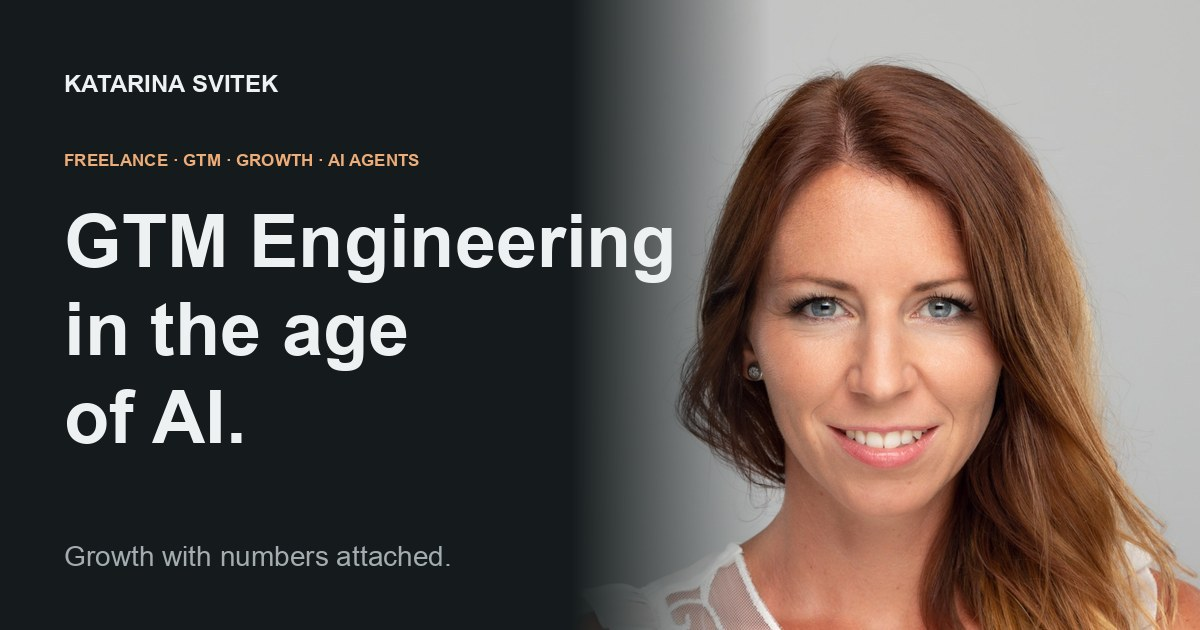
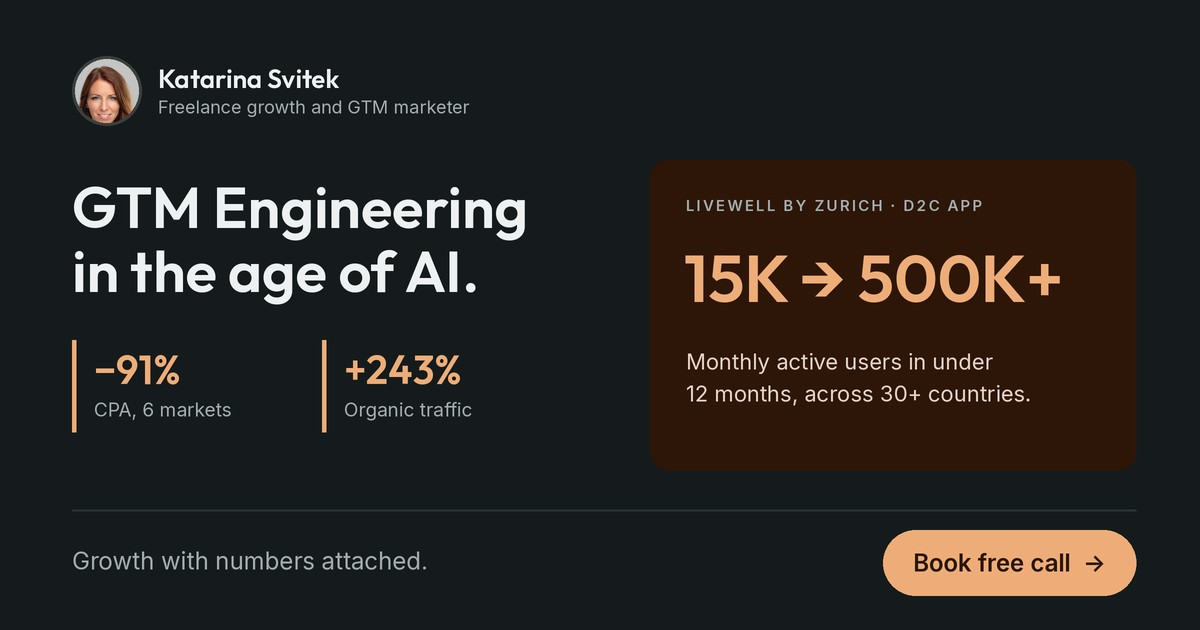
Use results-led OG image with Book free call CTA

diff --git a/src/routes/__root.tsx b/src/routes/__root.tsx
@@ -22,7 +22,7 @@ export const Route = createRootRoute({
       { property: 'og:title', content: TITLE },
       { property: 'og:description', content: DESCRIPTION },
       { property: 'og:url', content: SITE_URL },
-      { property: 'og:image', content: `${SITE_URL}/og-image.jpg` },
+      { property: 'og:image', content: `${SITE_URL}/og-image.jpg?v=2` },
       { property: 'og:image:width', content: '1200' },
       { property: 'og:image:height', content: '630' },
       { property: 'og:image:alt', content: 'Katarina Svitek, freelance GTM marketer' },
@@ -30,7 +30,7 @@ export const Route = createRootRoute({
       { name: 'twitter:card', content: 'summary_large_image' },
       { name: 'twitter:title', content: TITLE },
       { name: 'twitter:description', content: DESCRIPTION },
-      { name: 'twitter:image', content: `${SITE_URL}/og-image.jpg` },
+      { name: 'twitter:image', content: `${SITE_URL}/og-image.jpg?v=2` },
     ],
     links: [
       { rel: 'canonical', href: SITE_URL },
